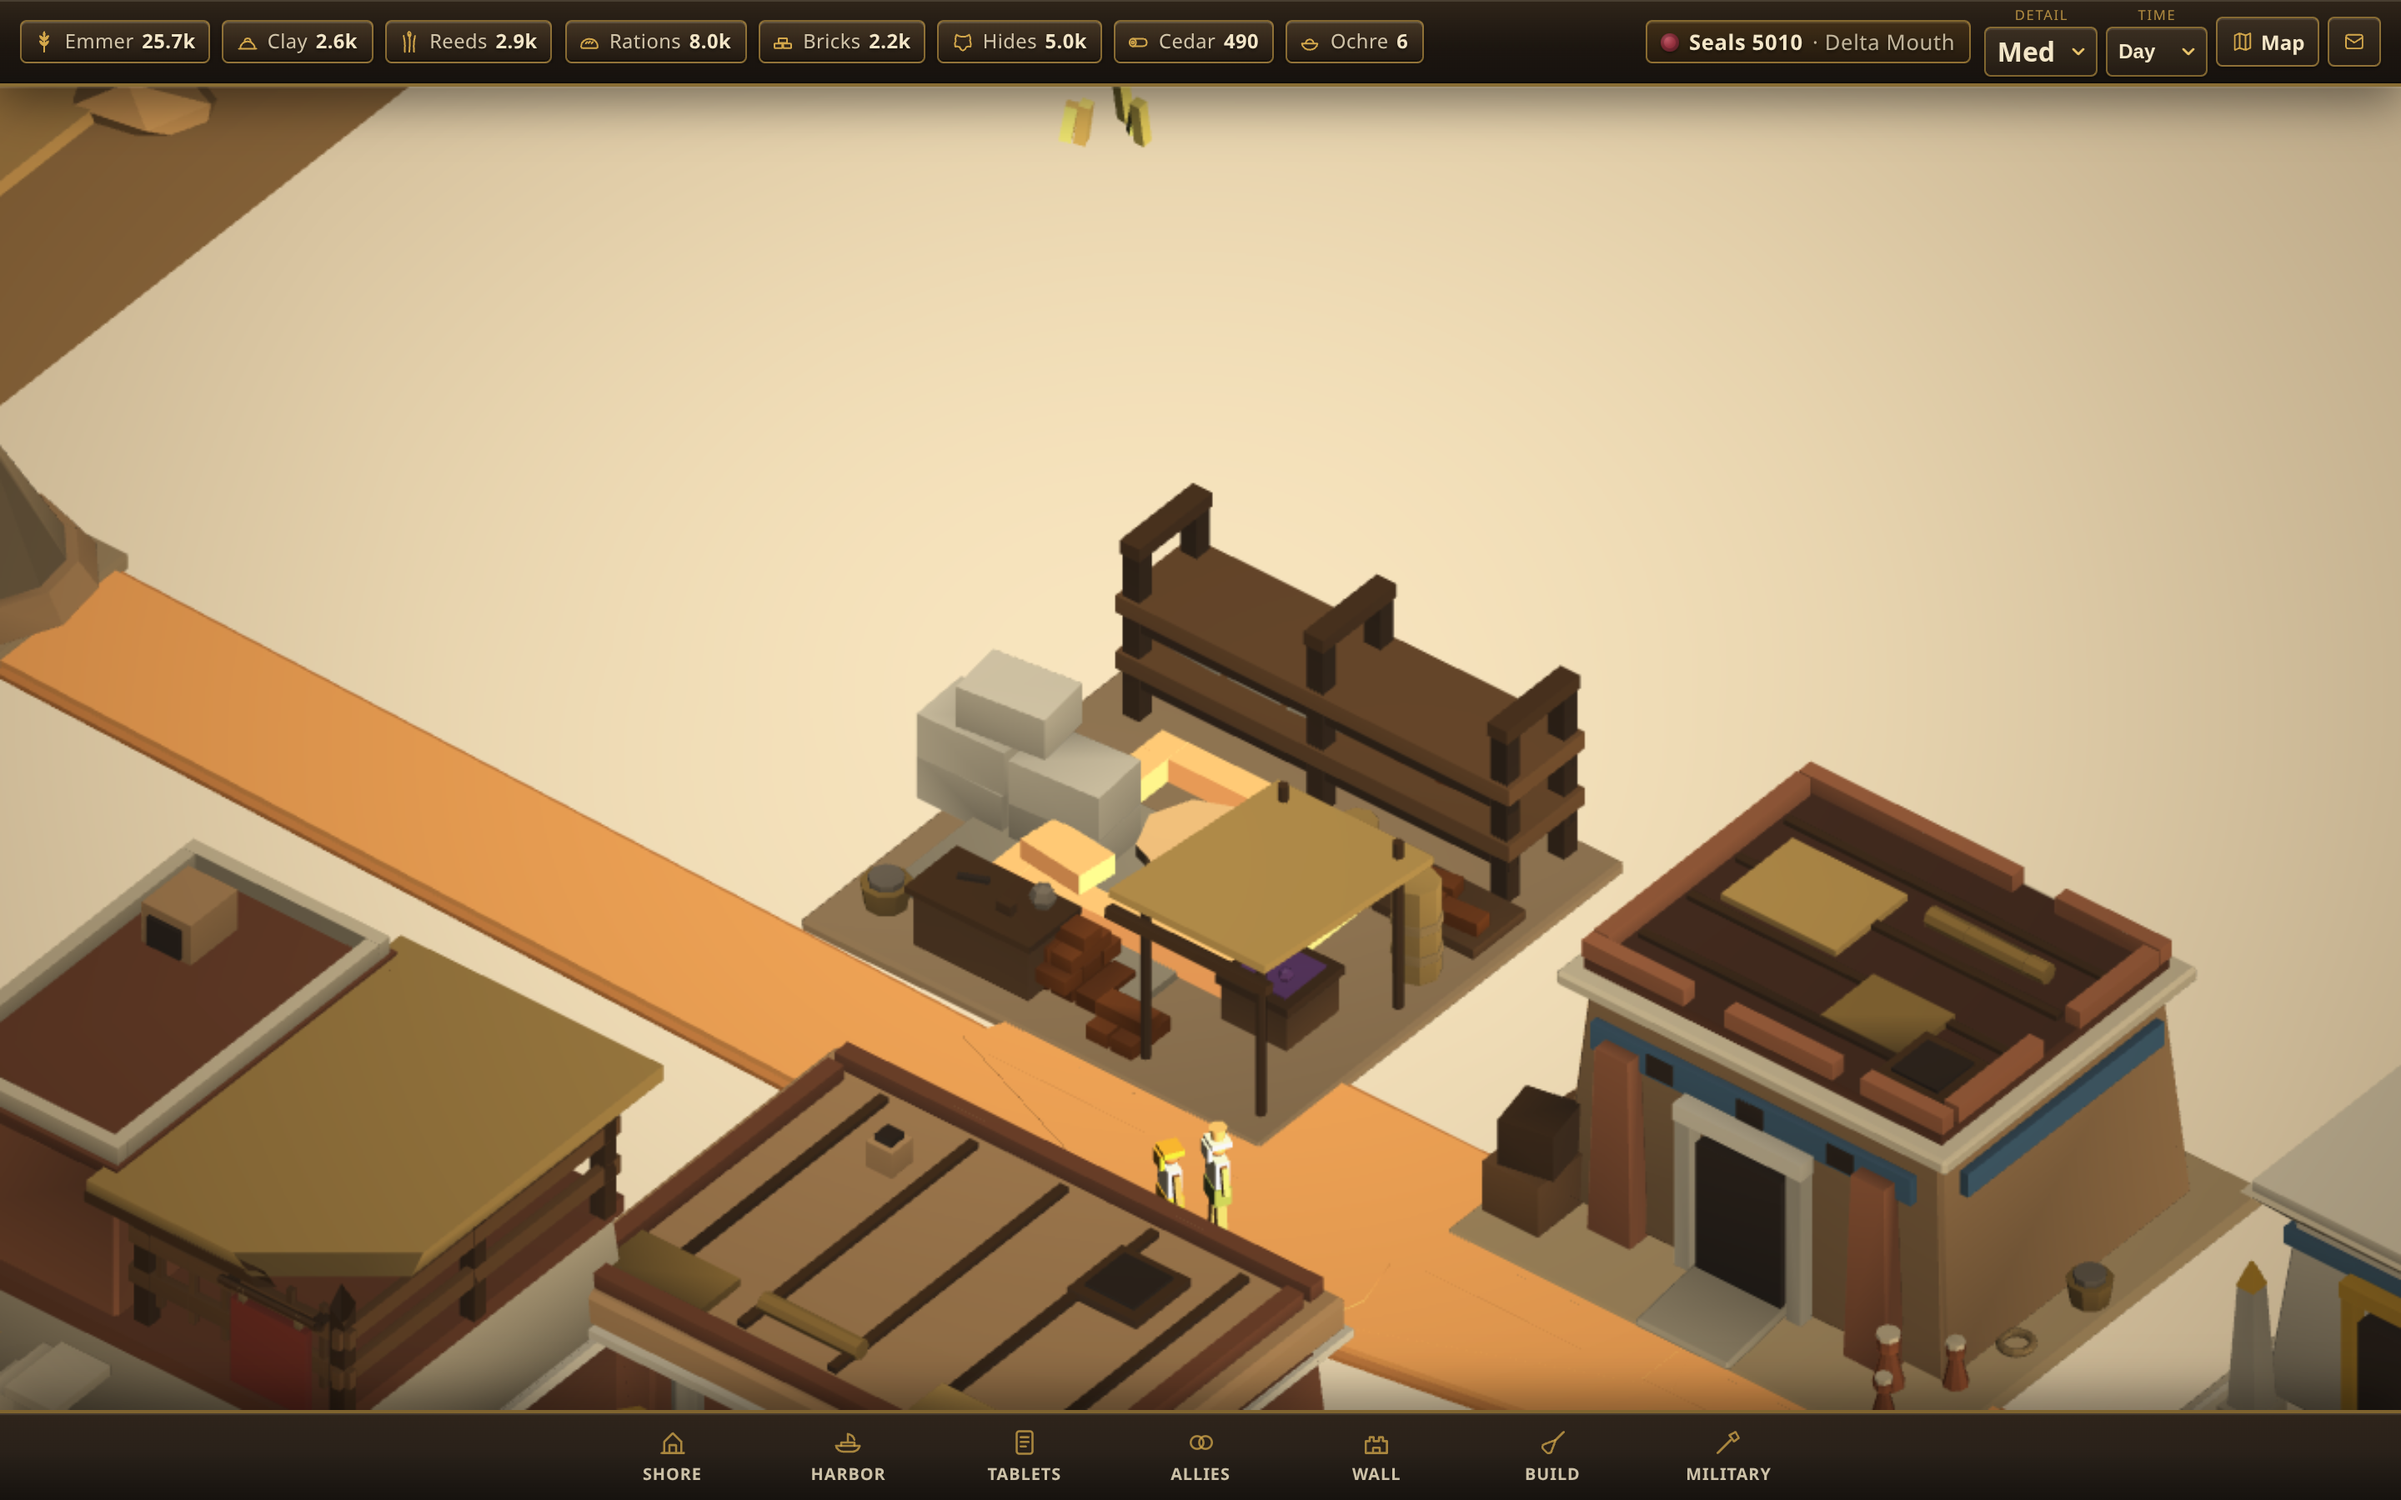
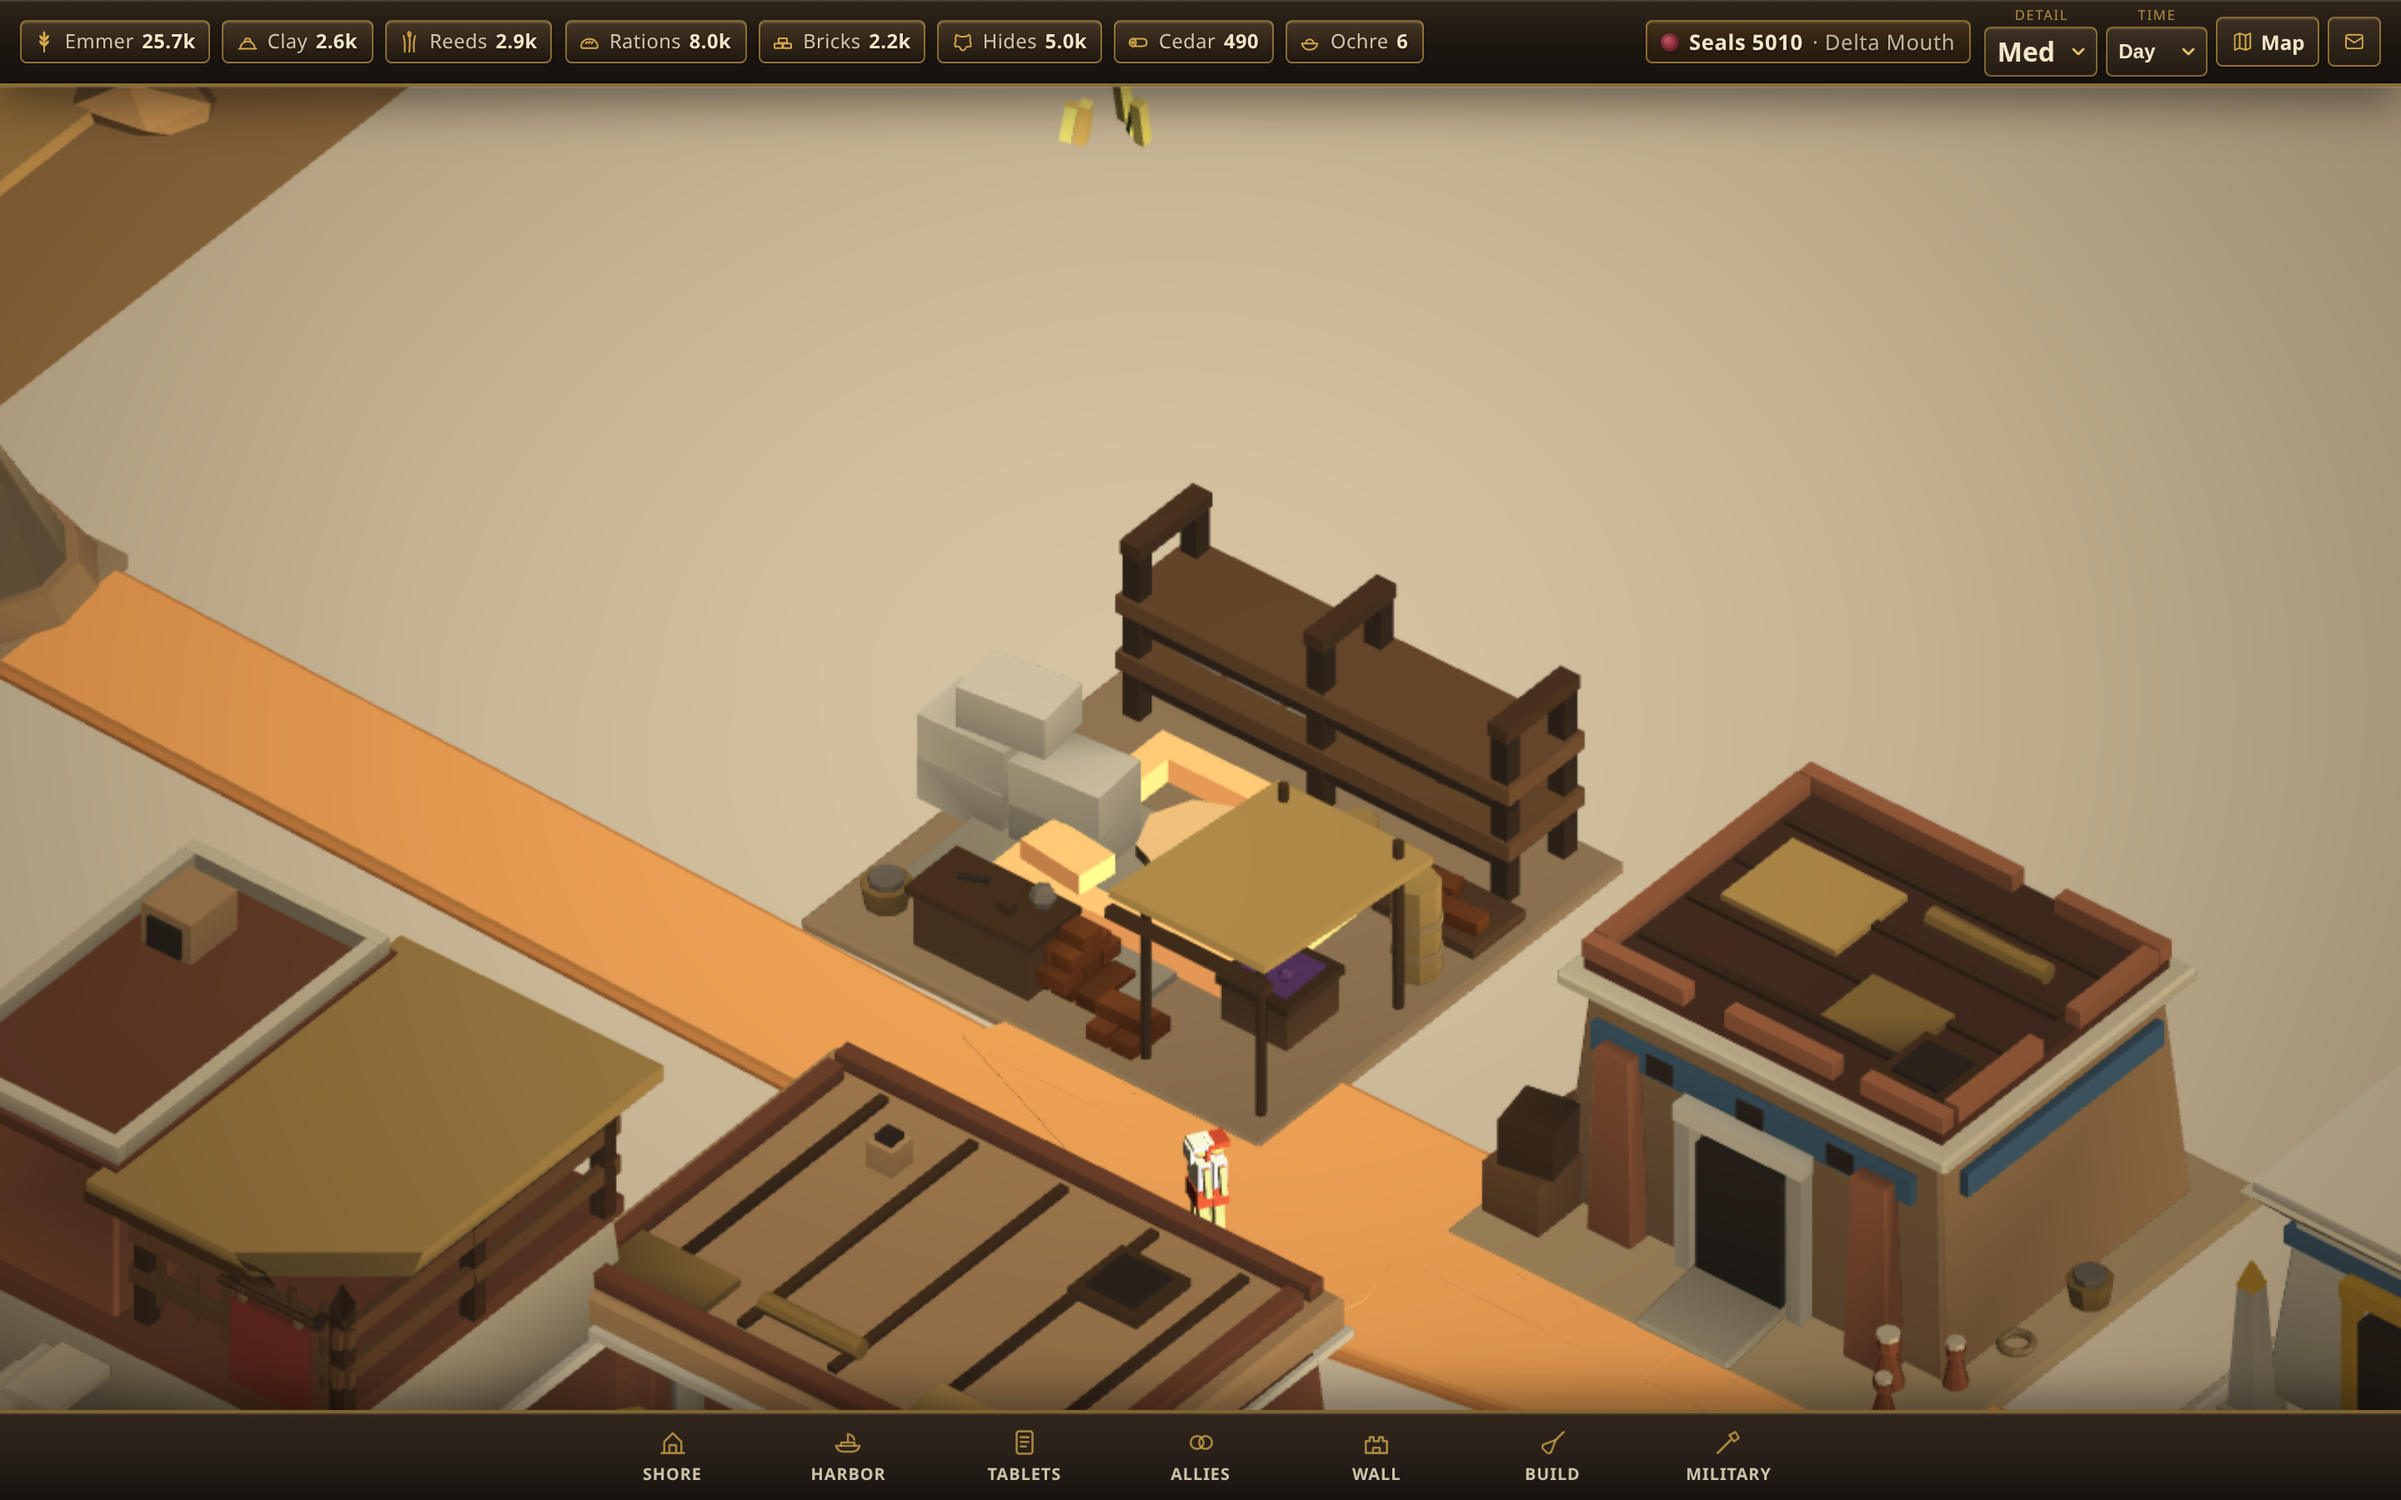
fix(overhaul-r6): sky-gold root cause + life density + last terrain/panel nits
The recurring 'gold floating in the sky' was luxury_workshop's freestanding
display rack peeking over its own roofline from behind — now wall-backed low
shelf. Palm crown cores hide frond intersections; 12 sim workers + third
barge; darkest mudflat lobe removed (the river ellipse); roads earthier;
dusk brighter (readable, not brown multiply); sand anisotropy 8 + tighter
tile; panels always open scrolled to top, snap removed.

diff --git a/apps/client/src/render/scene.ts b/apps/client/src/render/scene.ts
@@ -612,6 +612,15 @@ export class SettlementView {
       }
       const crownY = h * 0.98;
       const crownZ = lean * h * 0.42;
+      const core = MeshBuilder.CreatePolyhedron(
+        "palmCore",
+        { type: 3, size: 0.09 },
+        this.scene
+      );
+      core.position.set(0, crownY + 0.02, crownZ);
+      core.material = trunkMat;
+      core.parent = root;
+      core.isPickable = false;
       for (let ring = 0; ring < 2; ring++) {
         const count = ring === 0 ? 5 : 6;
         for (let f = 0; f < count; f++) {
@@ -879,8 +888,9 @@ export class SettlementView {
     const grit = this.makeSandTexture(pal.sand);
     if (grit) {
       mat.diffuseTexture = grit;
-      grit.uScale = 2.6;
-      grit.vScale = 2.3;
+      grit.uScale = 4.2;
+      grit.vScale = 3.8;
+      grit.anisotropicFilteringLevel = 8;
     } else {
       mat.diffuseColor = hexToColor3(pal.sand);
     }
@@ -912,7 +922,7 @@ export class SettlementView {
     flatMat.specularColor = hexToColor3("#4A7080").scale(0.18);
     flatMat.specularPower = 24;
     for (const [lz, lw, ld] of [
-      [-6.2, 2.6, 1.4], [9.6, 3.2, 1.7], [2.4, 1.9, 1.0],
+      [9.6, 2.6, 1.4], [2.4, 1.7, 0.9],
     ] as const) {
       const lobe = MeshBuilder.CreateSphere(
         `mudflat-${lz}`,
@@ -1226,6 +1236,7 @@ export class SettlementView {
     // Two first-glance barges on money-shot river (Life craft)
     this.bargeNode = this.makeOneBarge("barge", -13.0, -3.5, 1.15);
     this.bargeNode2 = this.makeOneBarge("barge2", -14.4, 6.2, 1.05);
+    this.makeOneBarge("barge3", -12.4, 12.5, 0.9);
   }
 
   /** Artboard-04 cargo barge: low planked hull, raised prow/stern, deck mat,
@@ -1908,7 +1919,7 @@ export class SettlementView {
     if (this.boardApprovalMode) {
       // Sim count drives density (goal law: workers small + sim count).
       // ~1 visible per 4 in the sim, tiny scale, roads only, capped low.
-      show = Math.min(8, Math.max(1, Math.round(pool / 4)));
+      show = Math.min(12, Math.max(1, Math.round(pool / 3)));
     } else {
       // Soft cap 8 on high; 0 assigned → 0–1 idle near GH
       const softMax = this.quality === "low" ? 4 : this.quality === "med" ? 6 : 8;

diff --git a/apps/client/src/render/atmosphere.ts b/apps/client/src/render/atmosphere.ts
@@ -94,7 +94,7 @@ export class Atmosphere {
         : Color3.Lerp(duskColor, nightColor, (n - 0.5) * 2);
     this.sun.diffuse = sunCol;
     // Clear colony-board day key — readable solid buildings (Surviving Mars)
-    this.sun.intensity = 1.9 - n * 1.15;
+    this.sun.intensity = 1.9 - n * 1.0;
     // Sun path: high warm day key -> long low western dusk -> faint moon.
     // Judges: "dusk is the day shot with an orange tint" — direction must move.
     const dayDir = new Vector3(-0.72, -0.46, 0.4);
@@ -107,7 +107,7 @@ export class Atmosphere {
     this.sun.direction = dir.normalize();
     this.sun.position = new Vector3(14, 26 - n * 14, -8);
 
-    this.hemi.intensity = 0.52 - n * 0.32;
+    this.hemi.intensity = 0.52 - n * 0.24;
     this.hemi.diffuse = Color3.Lerp(
       hexToColor3("#F0E8D8"),
       hexToColor3("#1A2840"),

diff --git a/packages/shared/src/grid.ts b/packages/shared/src/grid.ts
@@ -351,8 +351,8 @@ export function roadTierForGhLevel(ghLevel: number): RoadTier {
 }
 
 export const ROAD_COLORS: Record<RoadTier, { fill: string; edge: string }> = {
-  dirt: { fill: "#97744F", edge: "#7C5C3C" },
-  packed: { fill: "#A98A60", edge: "#8A6E4A" },
+  dirt: { fill: "#8B6C4C", edge: "#74573B" },
+  packed: { fill: "#9A7E58", edge: "#7E6446" },
   stone: { fill: "#C8C0B0", edge: "#9A9284" },
 };
 

diff --git a/apps/client/src/ui.ts b/apps/client/src/ui.ts
@@ -148,6 +148,10 @@ export function showPanel(name: string) {
   // World map gets the wide "set piece" shell; every other panel is a card.
   popup.classList.toggle("map-wide", name === "map");
 
+  // Panels must open at the top — judges saw headers sliced mid-scroll
+  const body = popup.querySelector(".menu-popup-body");
+  if (body) body.scrollTop = 0;
+
   popup.hidden = false;
 }
 

diff --git a/apps/client/src/styles.css b/apps/client/src/styles.css
@@ -977,7 +977,7 @@ html.dark button.btn-locked svg {
   min-height: 0;
   flex: 1 1 auto;
   /* Gentle snap so a flick settles with whole cards above the fold... */
-  scroll-snap-type: y proximity;
+  scroll-snap-type: none;
   /* ...and snapped cards land clear of the head hairline / bottom fade */
   scroll-padding-block: 0.5rem 64px;
 }

diff --git a/tools/kit-pipeline/author_kits.py b/tools/kit-pipeline/author_kits.py
@@ -1242,17 +1242,16 @@ def build_luxury_workshop(P):
     box("lw_dark_hearthmouth", 0.24, 0.07, 0.22, (hx, hy - 0.27, 0.2), P["dark"])
     box("lw_hearth_glow", 0.17, 0.05, 0.14, (hx, hy - 0.295, 0.22), hearth_glow)
 
-    # gold display shelf just inside the opening (glows at night)
-    dy = 0.08
+    # gold display: wall-backed shelf low against the rear wall — a tall
+    # freestanding rack read as "gold floating in the sky" from behind
+    # (its thin posts vanish over the roofline at the game camera)
+    dy = 0.62
     for px in (-0.85, -0.05):
-        box("lw_wood_disppost", 0.06, 0.06, 1.0, (px, dy, 0.13), P["wood_dk"])
-    for zz in (0.5, 0.85):
-        box("lw_wood_dispshelf", 0.95, 0.2, 0.04, (-0.45, dy, zz), P["wood"])
+        box("lw_wood_disppost", 0.06, 0.06, 0.62, (px, dy, 0.13), P["wood_dk"])
+    box("lw_wood_dispshelf", 0.95, 0.2, 0.04, (-0.45, dy, 0.5), P["wood"])
     box("lw_gold_ditem1", 0.16, 0.11, 0.12, (-0.72, dy, 0.54), gold_disp)
     cyl("lw_gold_ditem2", 0.05, 0.15, (-0.42, dy, 0.54), gold_disp, seg=8)
     sphere("lw_gold_ditem3", 0.05, (-0.18, dy, 0.54), gold_disp, seg=7)
-    box("lw_gold_ditem4", 0.2, 0.11, 0.07, (-0.6, dy, 0.89), gold_disp)
-    sphere("lw_gold_ditem5", 0.045, (-0.25, dy, 0.89), gold_disp, seg=7)
 
     # striped cloth awning sloping off the roof edge over the yard
     box("lw_cloth_awn", 1.95, 0.72, 0.04, (0, -0.62, 1.2), P["cl_yel"],
